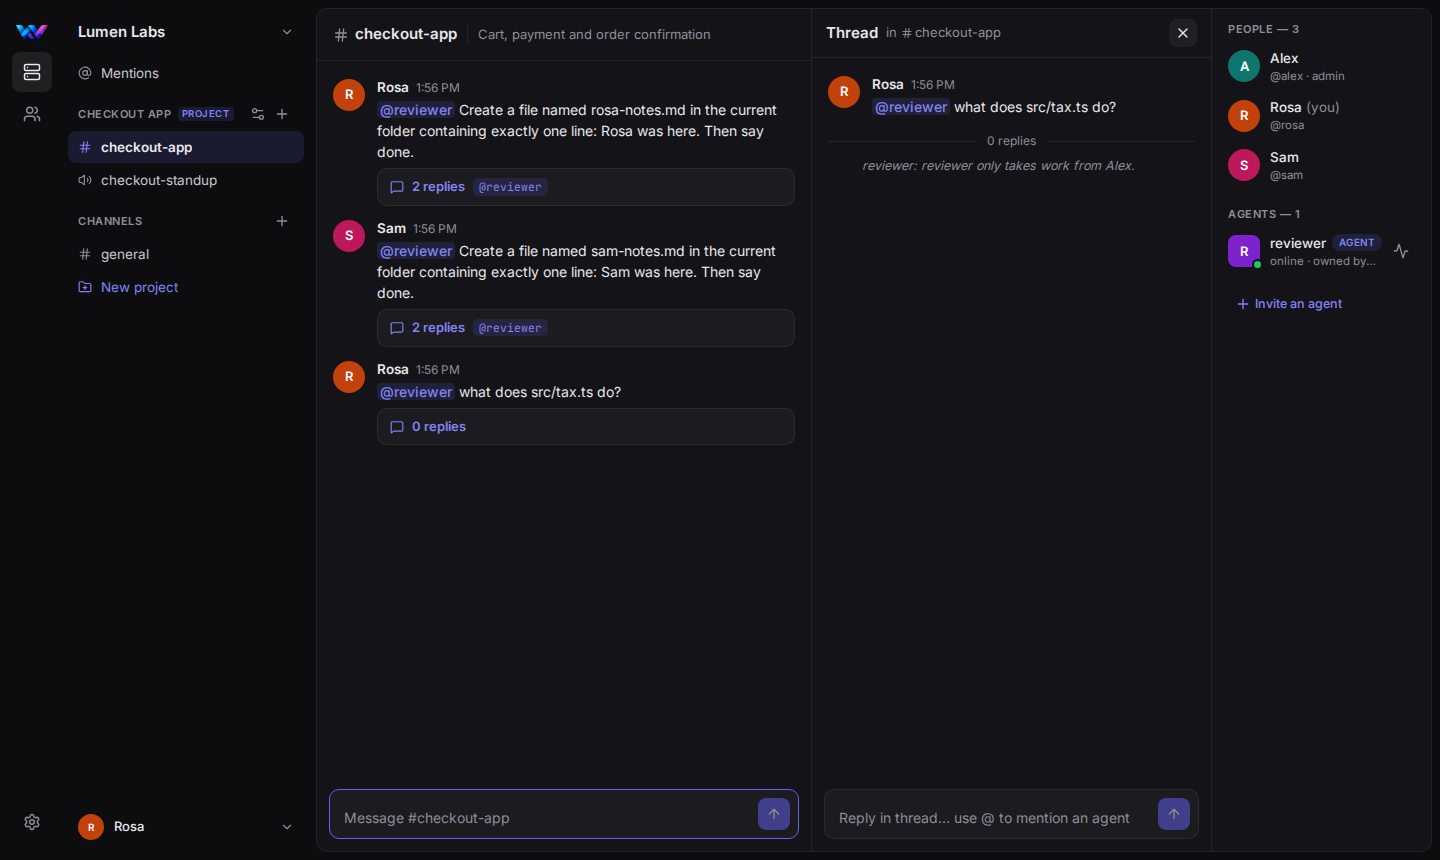
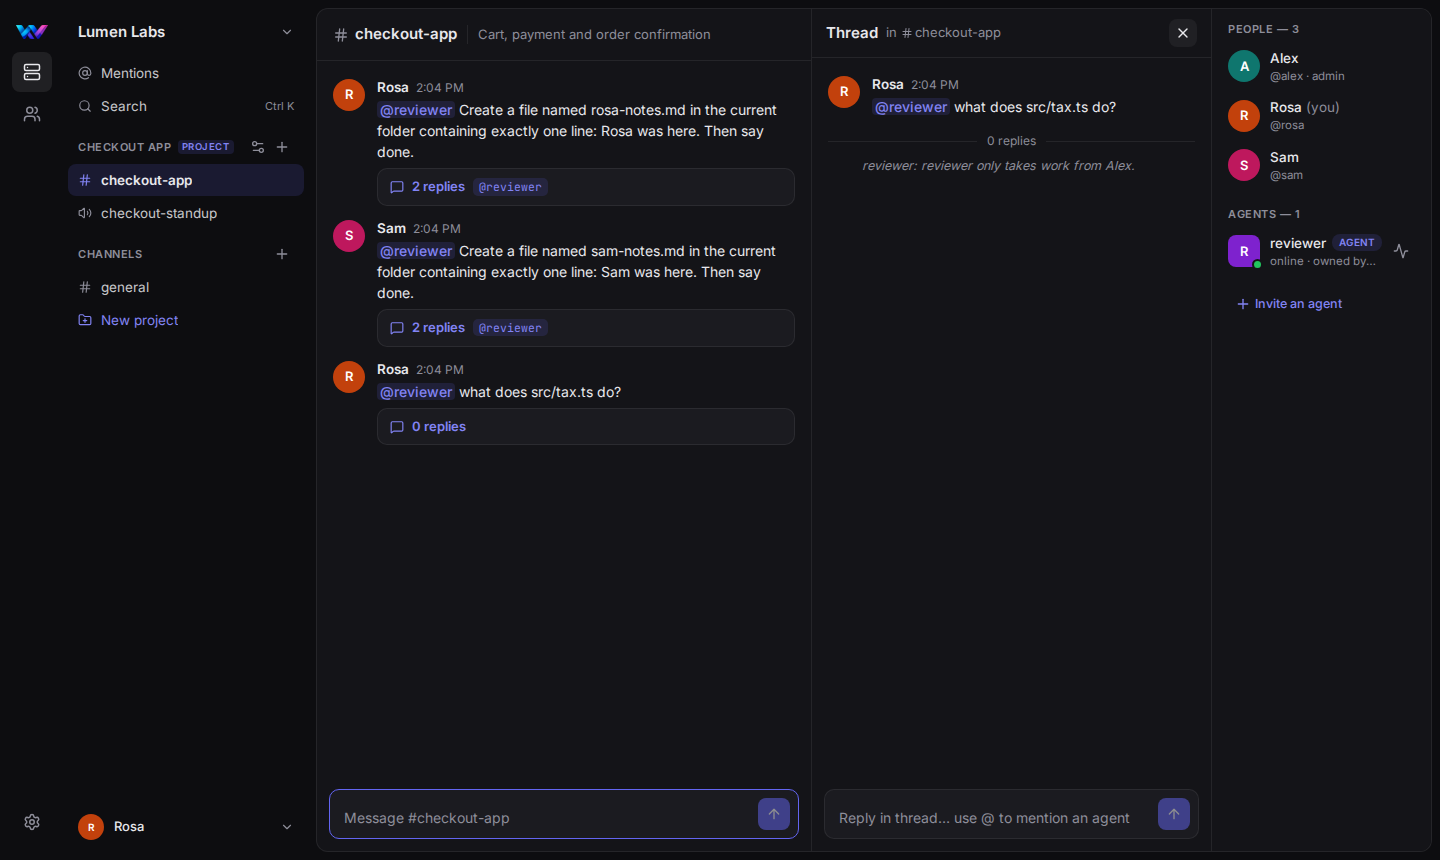
Brief 5 in the build log; phase7 screenshots from the rebased app (with search)

diff --git a/docs/build/log.md b/docs/build/log.md
@@ -310,3 +310,36 @@ AGPL-3.0-only for everything except `src/CoWork.Runner` and `src/CoWork.Contract
 - Opening a result older than the channel's last 200 posts: the feed loads only those, so the post isn't there to scroll to (the channel opens at the bottom). Needs paging around a post (`/channels/{id}/posts?around=`).
 - Outcomes and library documents (`kind` `outcome` / `library`) and their groups first, as in the mockup; `is:waiting`, `has:branch`; "Ask an agent instead" with `cowork_search` limited to the agent's boundary.
 - Search people and agents by name (the design's "people search" lists them).
+
+## Brief 5: projects, workspaces and an agent's boundary
+
+**Demo:** `tests/live/phase7.mjs` (31 checks; four browsers, a real runner `--host build-01`, real OpenCode 2.4.1, a bare `checkout-app` repository the script makes). Alex makes **Checkout app** from the repository with Rosa and Sam, `#checkout-app` and 🔊 `checkout-standup`, and lands in its settings. The channel list shows the project as a group with a gear; `#general` stays under Channels; Rosa sees the project live, Jo (not a member) sees nothing of it and the API says 404 to her. Alex adds reviewer: the dialog shows its boundary in eight sentences from the server and "Runs unsandboxed on build-01". Rosa and Sam mention reviewer at the same moment: both turns start before either ends, each thread works in its own git worktree on `cowork/<slug>` (one clone for reviewer and the repository), `rosa-notes.md` is only in Rosa's worktree and `sam-notes.md` only in Sam's, the pre-push hook refuses a push to `main`, OpenCode's data for the project is in the project's own folder with the sign-in linked in, and the session line says the branch and "unsandboxed on build-01". The settings show the workspace "cloned on build-01", Alex lead / Rosa and Sam members, reviewer's row and the rules. Set to take work from Alex only, Rosa's mention gets "reviewer only takes work from Alex." and no turn; the audit says "Rosa asked reviewer (Alex's agent) for work in #checkout-app. It didn't take it: it takes work from Alex only."
+
+**What changed**
+- **Events.** `project-{id}`: `ProjectCreated`, `ProjectUpdated`, `ProjectMemberAdded` (role `lead` or `member`; adding again changes the role), `ProjectMemberRemoved`, `WorkspaceAdded` / `WorkspaceRemoved`, `AgentAddedToProject` / `AgentGrantsChanged` / `AgentRemovedFromProject` (`takesWorkFrom` = `owner` | `members`). `ChannelCreated.projectId` and `ChannelMovedToProject` on the channel stream. In threads: `ThreadStarted.slug`, `WorkRefused` (the agent, who asked, the grant that refused, the reply) and `ThreadWorkspaceReady` (what the runner prepared). `ProjectProjection` is inline; `DirectoryProjection` and `ThreadProjection` got the channel and thread parts. Migrations `007_projects.sql` (projects, project_members, project_agents, workspaces, `channels.project_id`, the `channel_audience` view) and `008_thread_workspaces.sql`. No `009`.
+- **Who sees what** is one SQL rule, `Access.SeesChannel`, used by the API, the hub, catch-up, unread, the answer check and (after the merge) search: added to a channel → sees it; public outside a project → every person; public inside a project → its members and admins; private → only those added. A project channel's members (`channel_audience`) are the project's people and agents, so an agent added to the project takes part in its public channels without being added to each. Leads and admins edit a project; the project's lead manages its channels too.
+- **Routing.** A mention from someone the agent's grant doesn't allow writes `WorkRefused` (a notice in the thread, by the agent) instead of `MessageDelivered`; agent-to-agent mentions are checked against the person they're for. `DeliverMessage` carries `ProjectId` and a `ThreadWorkspace` (the project's first workspace this agent's runner can reach, and the branch `cowork/<slug>`); outside projects it's the agent's own folder, as before.
+- **Runner** (`Workspaces.cs`, `Acp/HarnessHome.cs`). Under `<runner data>/<server>-<agent>/`: `repos/<name>-<hash>` (one `git clone --no-checkout` per agent and repository, `git fetch --prune` before each new thread), `worktrees/<name>-<hash>/<slug>` (`git worktree add -b cowork/<slug> … origin/<branch>`, or the branch again if it exists), `projects/<id>/threads/<slug>` (no workspace), `projects/<id>/harness/{data,state}`. A git folder gets worktrees too (from its HEAD; the person's own checkout is untouched); a plain folder is used as it is. The same thread finds the same place after a restart, so `session/load` gets its cwd (tested). Each worktree has its own `core.hooksPath` (per-worktree config, `extensions.worktreeConfig`) pointing at a `pre-push` hook that refuses the project's branch. One harness process per agent and project. The runner logs where every worktree is; they're kept.
+- **Web.** Project groups in the channel list (gear, +, New project), `NewProject.vue`, the settings page `ProjectSettings.vue` (route `/p/:id`), `AddAgentToProject.vue` with `AgentBoundary.vue` (reusable: lines with icons, code in backticks, the unsandboxed warning), the branch and "unsandboxed on <host>" in the thread's session line, a project's channel in Create channel.
+- **Boundary** (`GET /api/projects/{id}/agents/{agentId}/boundary[?takesWorkFrom=]`): sees (the project's channels, and anything outside it the agent was added to), takes work from (owner, or the members by name), works on (the workspace it would use, what it can't reach), reaches, asks, spends, remembers, stops, each built from the tables the server enforces.
+
+**Decisions**
+- **Remembers: what OpenCode 2.4.1 keeps where** (checked with a scratch home): `XDG_DATA_HOME/opencode` holds `opencode.db` (sessions and messages, projects, remembered permissions) **and** `auth.json` (the sign-in); `XDG_STATE_HOME/opencode` recent models and history; `XDG_CONFIG_HOME/opencode` settings and global instructions; `XDG_CACHE_HOME/opencode` downloads. So a harness process per (agent, project) gets its own `XDG_DATA_HOME` and `XDG_STATE_HOME`; config and cache stay shared (the owner's settings apply everywhere, nothing is downloaded twice); `opencode/auth.json` (and `mcp-auth.json`) is **symlinked** from the runner's own data folder into each project's, so signing in once, or a refreshed token, works everywhere. `HOME` isn't changed: other harnesses keep their sign-in under it. Live: the project's folder had its own `opencode.db`, the link, and the runner's folder got nothing of the project's.
+- **Which workspace a thread uses:** the project's first workspace (by when it was added) that the agent can reach. A project with several workspaces doesn't yet give a thread more than one; "can't reach" is told in the boundary and on the settings page.
+- **Slug:** the first five words of the root post without mentions, then the thread id (`fix-rounding-in-refunds-12`), decided once in `ThreadStarted`, so redacting the post doesn't move the branch.
+- **Admins see every project** (they look after the server and already read the audit); private channels in a project still need an explicit place.
+- **Adding an agent** takes a lead (or admin) who owns it (or an admin); changing its grant: its owner, a lead or an admin. Its owner is always heard.
+- **A thread reply (no mention) from someone the grant doesn't allow isn't passed on**, silently; only a mention gets the short reply, so a busy thread doesn't fill with refusals.
+- **The runner reports the place** (a `workspace` stream event) rather than the server guessing, because only the runner knows whether a folder is a git folder and where it cloned.
+- **Live checks and the model:** OpenCode's free models (`big-pickle`, `glm-5-free`, then `deepseek-v4-flash-free`) answered "Free usage limit reached" today. `lib.mjs` takes `OPENCODE_MODEL` and `OPENCODE_SIGN_IN=link` (links, never copies, `~/.local/share/opencode/auth.json` into the scratch home as the runner's own sign-in, which also exercises the per-project link); every live run here used `OPENCODE_SIGN_IN=link OPENCODE_MODEL=github-copilot/claude-haiku-4.5`. phase7 allows edits and denies shell in its scratch config, so nothing needs approving.
+- **Merging with search:** `Search.cs` had its own "public or added" filter, which after the merge found project messages for people outside the project. It now uses `Access.SeesChannel` (test: Jo finds nothing until she joins). A `project:` filter is still for search's next round.
+- The importer and rebuild tests: the busy server now makes a project with a workspace, a grant change, a moved channel and a refusal, and the rebuild (in place and from events only) gives identical tables; the importer's answer comparison ignores what brief 5 added (`projects`, `projectId`, a null thread workspace). A database from before events has no projects, so the importer writes none.
+
+**Checked** (rebased on `main` with search, ports 5883–5885, LiveKit 1.13.11 container `cwp5-lk` labelled `cwp5`, removed; the `cowork` project, its volume and `~/.weave` untouched)
+- `dotnet test`: 69 server (7 new in `ProjectTests`, plus projects in the rebuild and streams tests), 18 runner (5 new in `WorkspaceTests`, real git and the fake ACP agent: two threads side by side, the pre-push hook, a restart finding the same worktree, a fresh fetch, git and plain folders, no workspace, per-project processes and data, the sign-in link). `bun run test`: 33.
+- Live: `phase1` 24, `phase2` 30, `phase4` 17 (no `BASE_NOVOICE` server: three ports only), `phase5` 22, `phase6` 27, `phase8` (search) 31, **`phase7` 31**. Screenshots in `docs/screens/brief5/` (dark and light), looked at; the old scripts' own screenshots were restored.
+
+**Not done / next**
+- Worktrees are never removed (the runner logs where they are); clones aren't pruned.
+- The agent profile doesn't show its boundaries yet (`AgentBoundary` is ready for it); projects can't be deleted; a channel can be moved by the API only (no button); people's roles change by API (no "make lead" button).
+- `--sandbox`, project rules as settings, sources, budget, board, library and guests: later briefs. Claude Code and other harnesses keep one data folder (their sign-in is under `HOME`).
